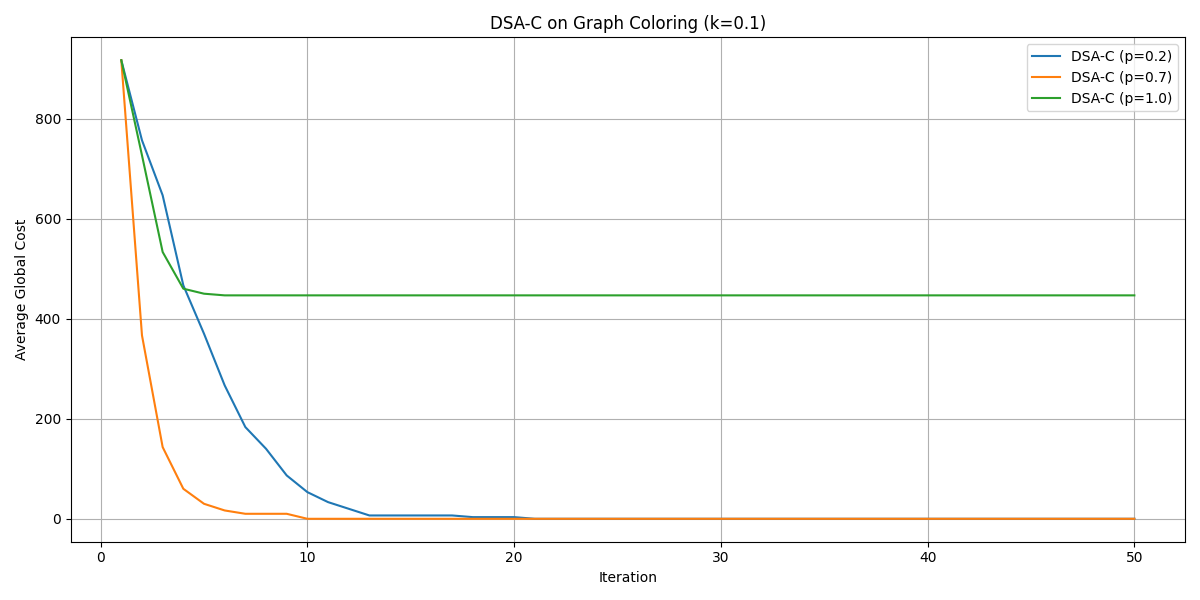
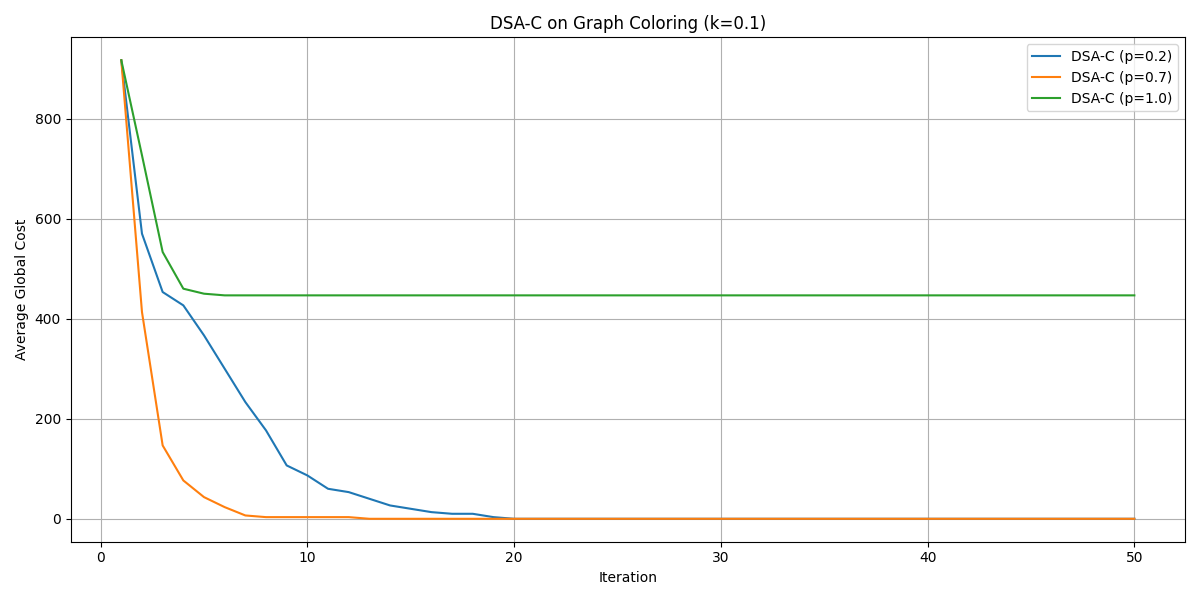
הוספת קבצים ראשונית

diff --git a/IOT-EX.py b/IOT-EX.py
@@ -312,60 +312,79 @@ import matplotlib.pyplot as plt
 
 
 # פונקציה: להריץ 30 בעיות ולחשב ממוצע על כל איטרציה
-def average_costs_over_runs(p, k=0.25, problem_type='general', max_iterations=50, num_runs=30):
-    all_runs_costs = []
+def average_costs_over_runs_shared_problems(ps=[0.2, 0.7, 1.0], k=0.25, problem_type='general', max_iterations=50, num_runs=30):
+    results = {p: [] for p in ps}
 
     for run in range(num_runs):
+        # יצירת בעיה עם seed קבוע
         creator = CreateEnvironment(problem_type=problem_type, seed=run)
         agents = creator.create_agents()
         creator.connect_agents(k=k)
-        env = DCOPEnvironment(agents)
-        simulator = Simulator(env)
-        simulator.run(p=p, algorithm='DSA', max_iterations=max_iterations)
-        all_runs_costs.append(simulator.costs_over_time)
 
-    return np.mean(np.array(all_runs_costs), axis=0)
+        for p in ps:
+            # שכפול של הסוכנים כדי לשמור על אותה התחלה
+            copied_agents = deepcopy_agents(agents)  # אתה צריך לממש את זה!
+            env = DCOPEnvironment(copied_agents)
+            sim = Simulator(env)
+            sim.run(p=p, algorithm='DSA', max_iterations=max_iterations)
+            results[p].append(sim.costs_over_time)
+
+    # החזרת ממוצע
+    return {p: np.mean(np.array(results[p]), axis=0) for p in ps}
+
+def deepcopy_agents(agents_list):
+    from copy import deepcopy
+    new_agents = []
+
+    id_to_agent = {}
+
+    for agent in agents_list:
+        new_agent = Agent(
+            agent_id=agent.agent_id,
+            domain=deepcopy(agent.domain)
+        )
+        new_agent.value = agent.value
+        new_agent.cost_tables = deepcopy(agent.cost_tables)
+        id_to_agent[new_agent.agent_id] = new_agent
+        new_agents.append(new_agent)
+
+    # עדכון שכנים לפי מזהים
+    for original_agent in agents_list:
+        copied_agent = id_to_agent[original_agent.agent_id]
+        copied_agent.neighbors = list(original_agent.neighbors)
+
+    return new_agents
+
 
 
 # פונקציה: מציירת את הגרף ל-k מסוים
-def plot_dsa_for_k(k, problem_type='general', save_as=None):
+def plot_dsa_for_k_fixed_problems(k, problem_type='general', save_as=None):
     ps = [0.2, 0.7, 1.0]
     max_iterations = 50
+    results = average_costs_over_runs_shared_problems(ps=ps, k=k, problem_type=problem_type, max_iterations=max_iterations)
 
     plt.figure(figsize=(12, 6))
-
     for p in ps:
-        avg_costs = average_costs_over_runs(p=p, k=k, problem_type=problem_type, max_iterations=max_iterations)
-        plt.plot(range(1, max_iterations + 1), avg_costs, label=f'DSA-C (p={p})')
-
-    plt.xlabel('Iteration')
-    plt.ylabel('Average Global Cost')
-
-    if problem_type == 'coloring':
-        title = "DSA-C on Graph Coloring (k=0.1)"
-    else:
-        title = f"DSA-C Comparison (k={k})"
-    plt.title(title)
-
+        plt.plot(range(1, max_iterations + 1), results[p], label=f'DSA-C (p={p})')
+    plt.xlabel("Iteration")
+    plt.ylabel("Average Global Cost")
+    plt.title(f"DSA-C Comparison on k={k}" if problem_type != 'coloring' else "DSA-C on Graph Coloring (k=0.1)")
     plt.legend()
     plt.grid(True)
     plt.tight_layout()
 
     if save_as:
-        plt.savefig(save_as)  # שמירת גרף לקובץ אם רוצים
-    plt.show()
+        plt.savefig(save_as)
+    else:
+        plt.show()
+
 
 
 # פונקציה ראשית: להריץ הכל
 def run_all_dsa_graphs():
-    # גרף עבור k=0.25
-    plot_dsa_for_k(k=0.25, problem_type='general', save_as="dsa_k025.png")
-
-    # גרף עבור k=0.75
-    plot_dsa_for_k(k=0.75, problem_type='general', save_as="dsa_k075.png")
-
-    # גרף עבור בעיית צביעת גרף
-    plot_dsa_for_k(k=0.1, problem_type='coloring', save_as="dsa_coloring.png")
+    plot_dsa_for_k_fixed_problems(k=0.25, problem_type='general')
+    plot_dsa_for_k_fixed_problems(k=0.75, problem_type='general')
+    plot_dsa_for_k_fixed_problems(k=0.1, problem_type='coloring')
 
 
 # הפעלה
